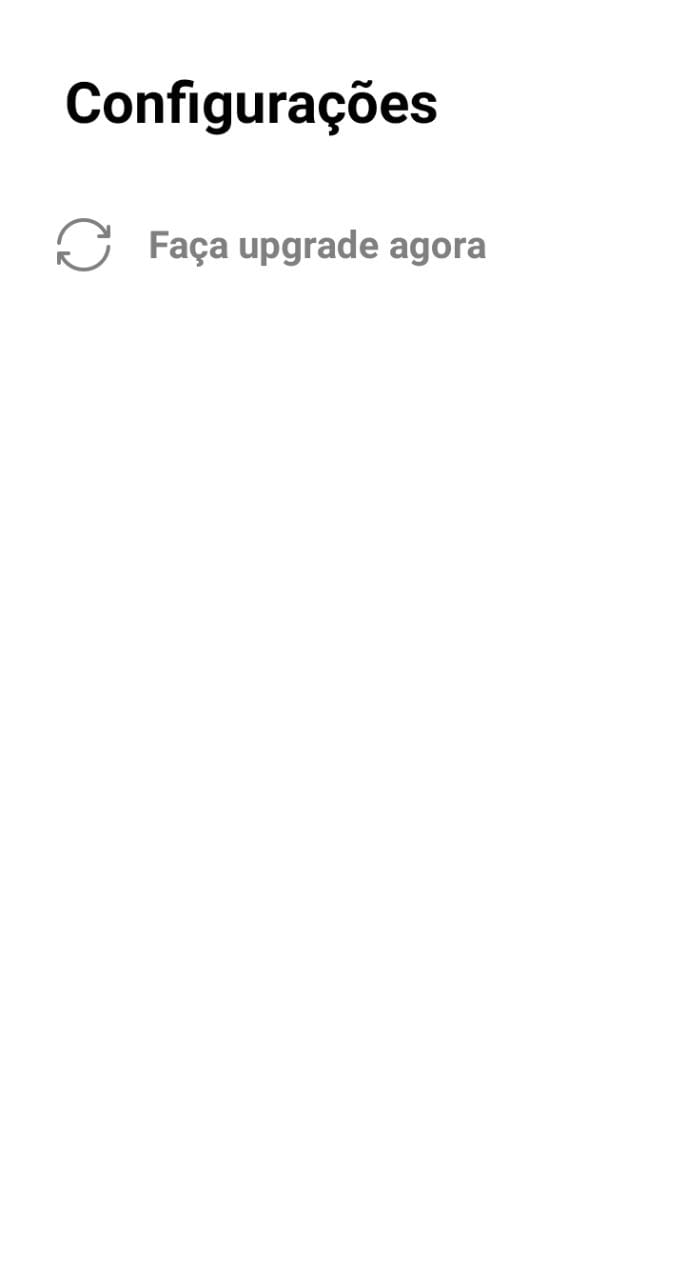
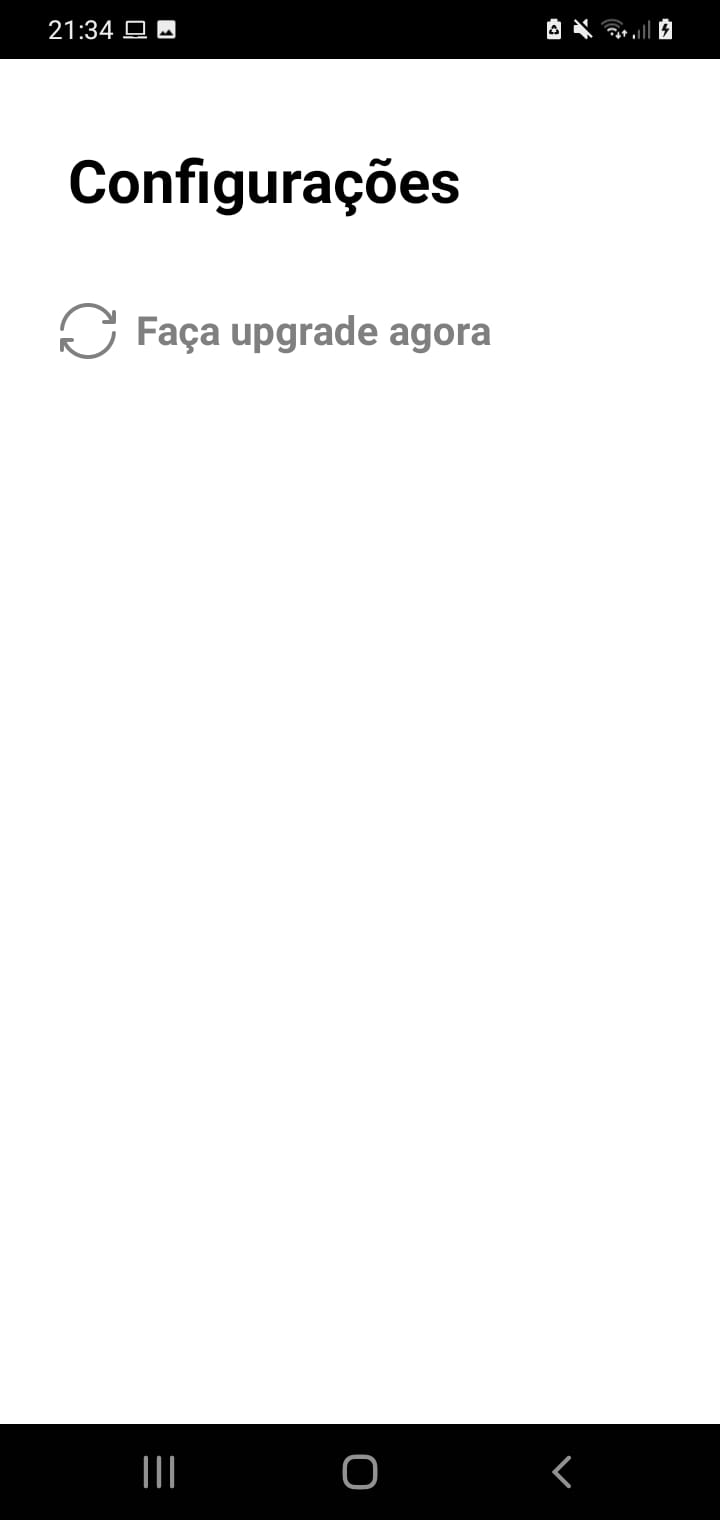
Add images

Changed region(s): [[0.0, 0.0, 1.0, 0.25], [0.0, 0.9375, 1.0, 1.0]]

diff --git a/src/screens/HomeScreen/HomeScreen.tsx b/src/screens/HomeScreen/HomeScreen.tsx
@@ -83,9 +83,15 @@ function HomeScreen({navigation}: any) {
               ) : (
                 <TouchableOpacity
                   onPress={() => navigation.navigate('SignUp')}
-                  style={{flexDirection: 'row', marginTop: 30}}>
+                  style={{
+                    flexDirection: 'row',
+                    marginTop: 30,
+                    marginLeft: 30,
+                  }}>
                   <Icon name="sync" size={28} color="grey" />
-                  <StyledGreyText>Faça upgrade agora</StyledGreyText>
+                  <StyledGreyText style={{marginLeft: 10}}>
+                    Faça upgrade agora
+                  </StyledGreyText>
                 </TouchableOpacity>
               )}
             </>

diff --git a/src/screens/HomeScreen/StyledHomeScreen.ts b/src/screens/HomeScreen/StyledHomeScreen.ts
@@ -23,13 +23,14 @@ export const StyledH1Text = styled.TextInput`
   font-weight: bold;
   font-size: 30px;
   margin-top: 30px;
+  margin-left: 30px;
 `;
 
 export const StyledGreyText = styled.Text`
   color: grey;
   font-weight: bold;
   font-size: 20px;
-  margin-left: 20px;
+  margin-left: 35px;
 `;
 
 export const StyledSignInButton = styled.TouchableOpacity`
@@ -53,5 +54,4 @@ export const StyledButtonText = styled.Text`
 export const StyledMainView = styled.SafeAreaView`
   flex: 1;
   background-color: white;
-  padding-left: 30px;
 `;

diff --git a/src/screens/SignUpScreen/SignUpScreen.tsx b/src/screens/SignUpScreen/SignUpScreen.tsx
@@ -15,7 +15,12 @@ function SignUpScreen({navigation}: any) {
       <StyledGobackButton onPress={() => navigation.navigate('Home')}>
         <Icon name="arrowleft" size={30} color="#7a58fa" />
       </StyledGobackButton>
-      <View style={{flex: 1, alignItems: 'center', justifyContent: 'center'}}>
+      <View
+        style={{
+          flex: 1,
+          alignItems: 'center',
+          justifyContent: 'center',
+        }}>
         <Button
           onPress={() => setModalVisible(true)}
           children="Faça upgrade agora!"

diff --git a/src/components/Button/StyledButton.ts b/src/components/Button/StyledButton.ts
@@ -10,6 +10,7 @@ interface IText {
   color?: 'blue' | 'pink';
 }
 export const StyledButton = styled.TouchableOpacity<IButton>`
+  align-self: center;
   align-items: center;
   justify-content: center;
   width: 200px;

diff --git a/src/components/LoginInput/StyledLoginInput.ts b/src/components/LoginInput/StyledLoginInput.ts
@@ -6,6 +6,7 @@ export const StyledText = styled.Text`
 
 export const StyledTextInputView = styled.View`
   width: 100%;
+  align-items: center;
 `;
 
 export const StyledTextInput = styled.TextInput`
